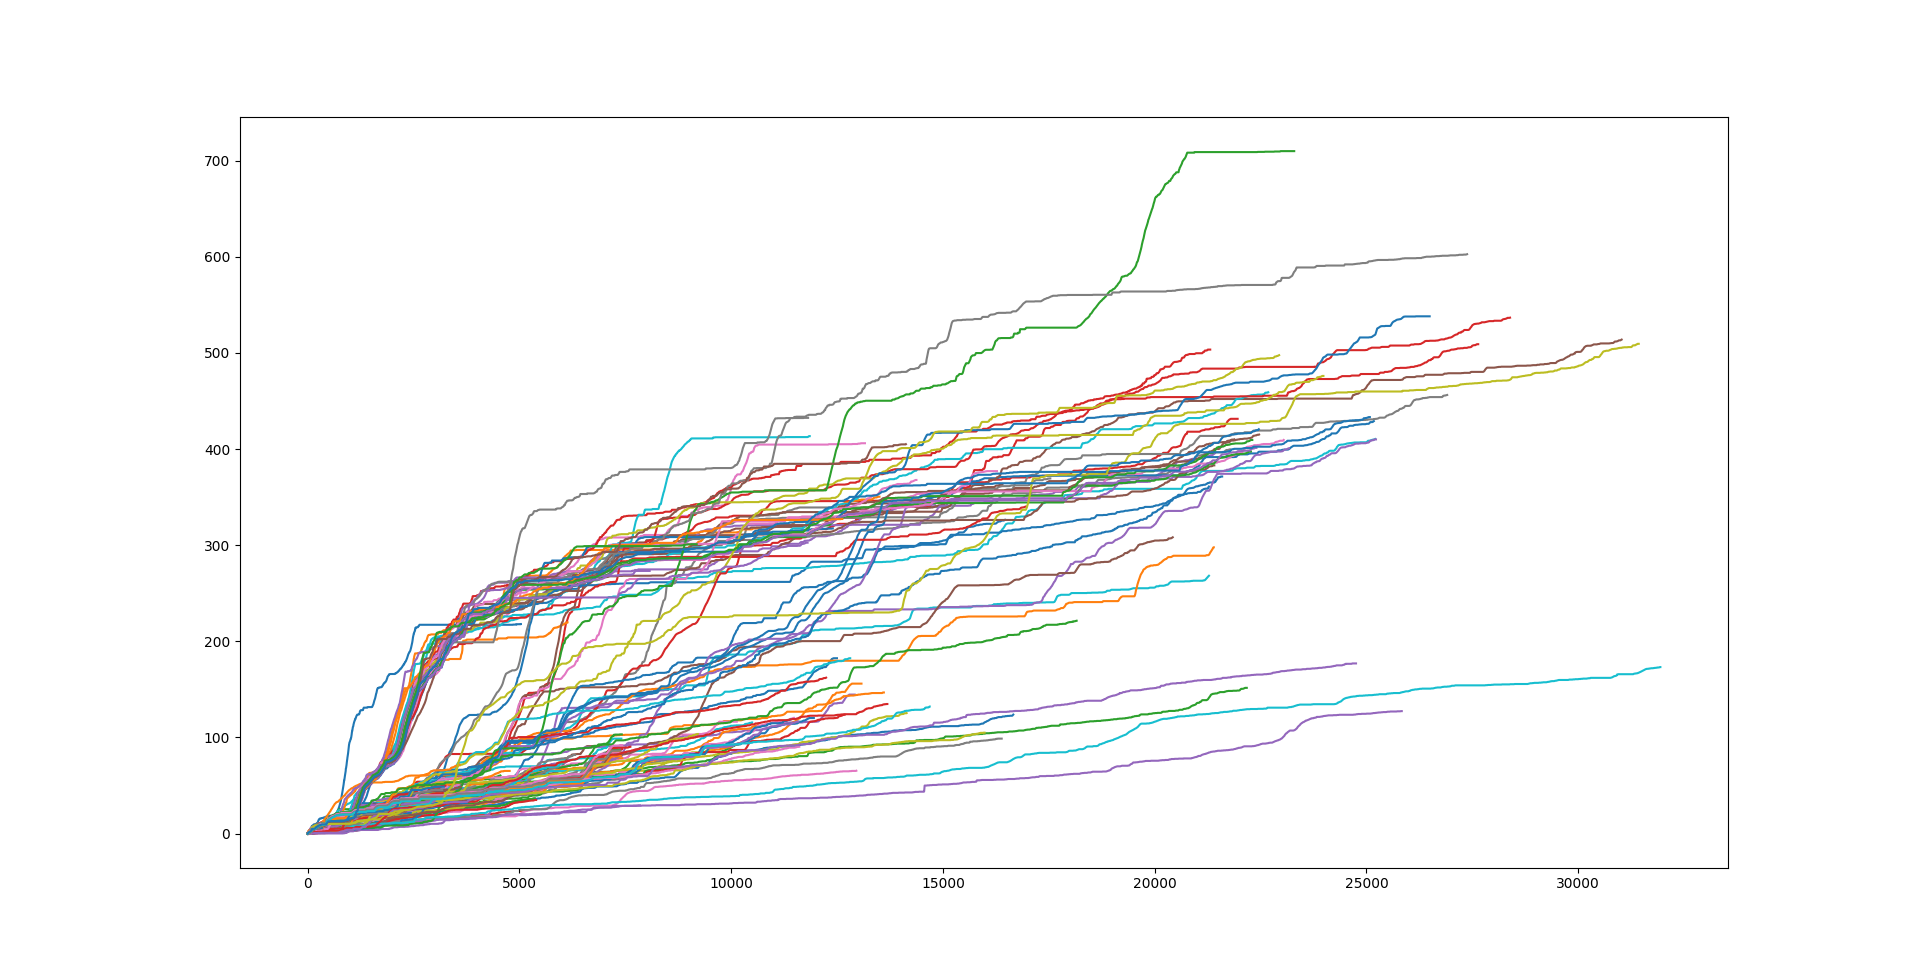
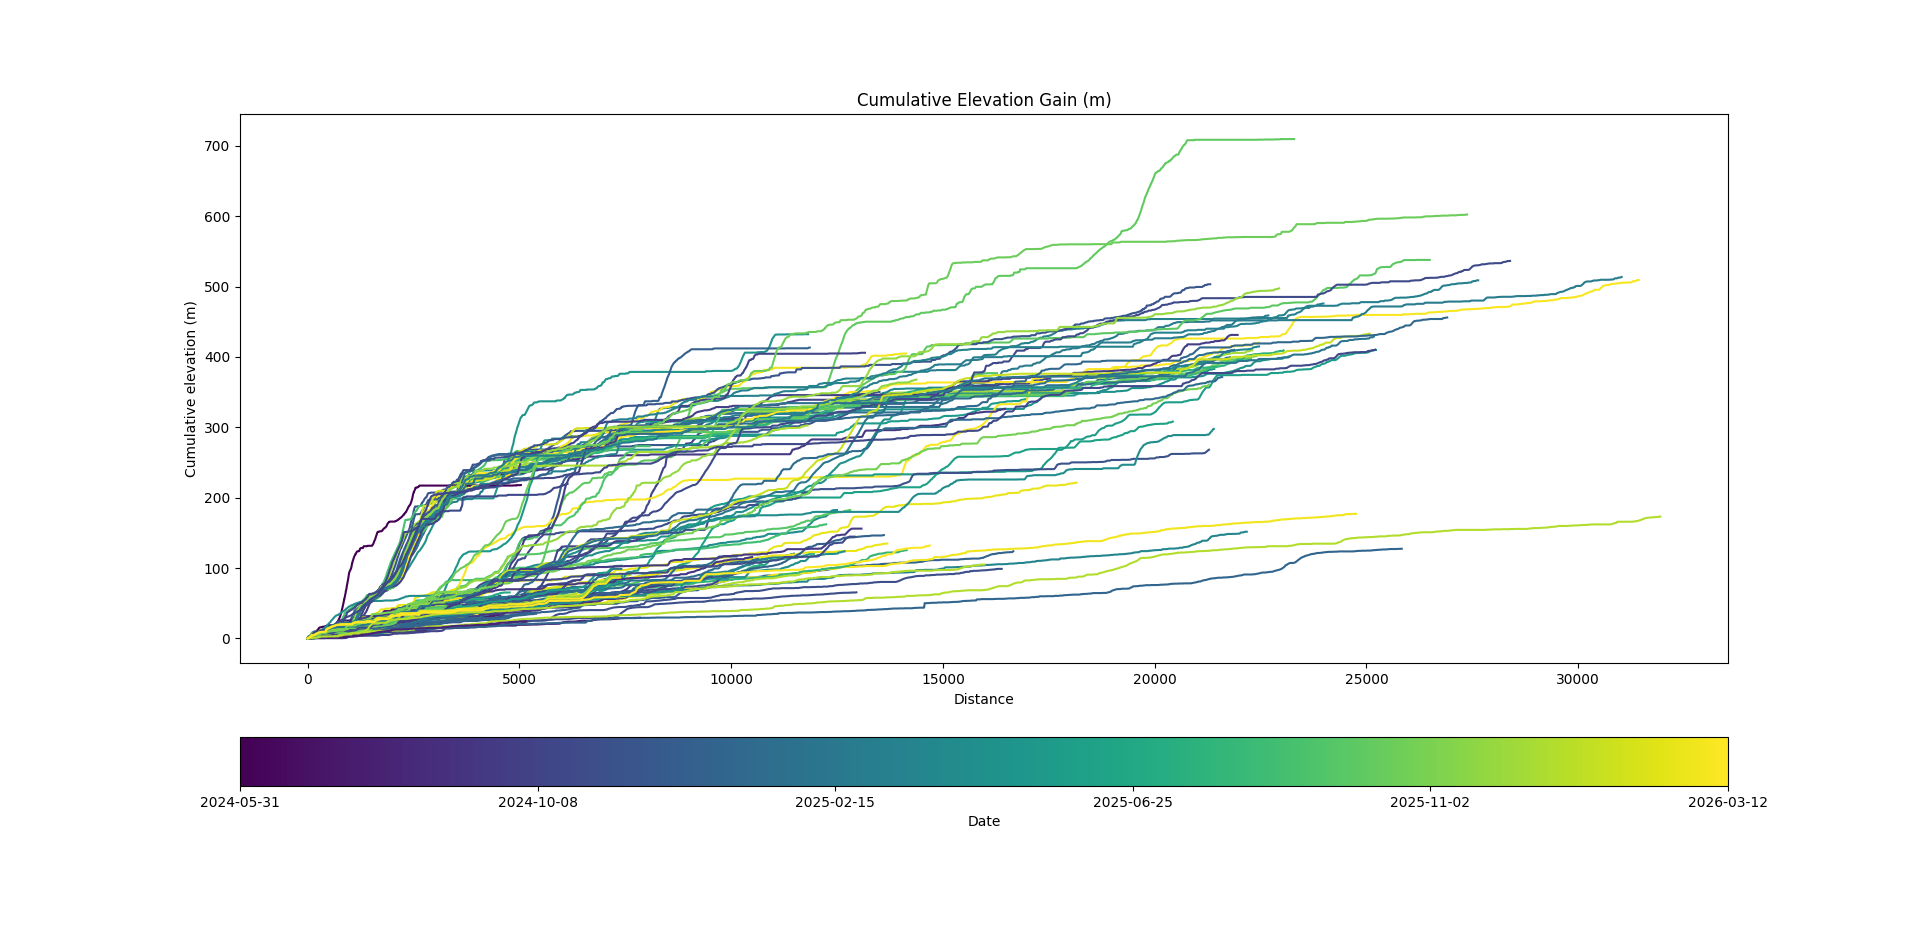
add script to create elevation profiles, update example images

diff --git a/visualize_full.py b/visualize_full.py
@@ -1,0 +1,89 @@
+#!usr/bin/python
+# -*- coding: utf-8 -*-import string
+
+import os
+import matplotlib.pyplot as plt
+import matplotlib as mpl
+from matplotlib.lines import Line2D
+import numpy as np
+from datetime import datetime, timedelta
+
+from misc import load_json, pace_to_float, float_to_pace_str, parse_full_date, parse_datestring, METRICS_OF_INTEREST
+from parsing import get_metric_indices, extract_metrics, extract_data
+
+
+def generate_elevation_profile_single(filename):
+	jsondata = load_json(filename)
+	extracted_data = extract_data(jsondata)
+	
+	dist = [datapoint["sumDistance"] for datapoint in extracted_data]
+	elevation = [datapoint["directElevation"] for datapoint in extracted_data]
+	plotdata = {
+		"date" : parse_full_date(jsondata["summaryDTO"].get("startTimeLocal")),
+		"x" : dist,
+		"y" : elevation
+	}
+	return plotdata
+
+def generate_cumelevation_profile_single(filename):
+	jsondata = load_json(filename)
+	extracted_data = extract_data(jsondata)
+	
+	dist = [datapoint["sumDistance"] for datapoint in extracted_data]
+	elevation = [datapoint["directElevation"] for datapoint in extracted_data]
+	n = len(elevation)
+	cumelevation = [0]*n
+	for i in range(n-1):
+		cumelevation[i+1] = cumelevation[i]+max(0, elevation[i+1]-elevation[i])
+	plotdata = {
+		"date" : parse_full_date(jsondata["summaryDTO"].get("startTimeLocal")),
+		"x" : dist,
+		"y" : cumelevation
+	}
+	return plotdata
+
+def plot_elevation_profiles(filenames, cumulative=False):
+	color_ord = {}
+	data_by_date = {}
+	for filename in filenames:
+		if cumulative:
+			plotdata = generate_cumelevation_profile_single(filename)
+		else:
+			plotdata = generate_elevation_profile_single(filename)
+		data_by_date[plotdata["date"]] = {"x": plotdata["x"], "y" : plotdata["y"]}
+		color_ord[plotdata["date"]] = plotdata["date"].toordinal()
+	min_dataord = min(color_ord[d] for d in color_ord)
+	max_dataord = max(color_ord[d] for d in color_ord)
+	dataord_diff = max_dataord-min_dataord
+	for date in data_by_date:
+		datapoint = data_by_date[date]
+		plt.plot(datapoint["x"],datapoint["y"], c=mpl.colormaps["viridis"]((date.toordinal()-min_dataord)/dataord_diff))
+	plt.xlabel("Distance")
+	if cumulative:
+		plt.ylabel("Cumulative elevation (m)")
+		plt.title("Cumulative Elevation Gain (m)")
+	else:
+		plt.ylabel("Elevation (m)")
+		plt.title("Height Profiles")
+
+	ticks = np.linspace(0.0, 1.0, 6)
+	cbar = plt.colorbar(plt.cm.ScalarMappable(cmap="viridis"), ax=plt.gca(), orientation='horizontal', pad=0.1, aspect=30)
+	cbar.set_label('Date')
+	cbar.set_ticks(ticks)
+	cbar.set_ticklabels([datetime.fromordinal(int(t*dataord_diff+min_dataord)).strftime('%Y-%m-%d') for t in ticks])
+
+	plt.show()
+
+	
+def test(type="running"):
+	dir_downloaded = "full_activity_data/"+type
+	input_files = [
+			"full_activity_data/"+type+"/"+f for f in os.listdir(dir_downloaded)
+			if f.lower().endswith(".json")
+		]
+	#print (input_files)
+	plot_elevation_profiles(input_files, True)
+
+if __name__ == "__main__":
+	test("running")
+	

diff --git a/visualizing.py b/visualizing.py
@@ -81,7 +81,6 @@ def visualize_activity_data(datadir:str, min_date:str="01.01.2000", activitytype
 			x_vals_hl.append(speed)
 			y_vals_hl.append(data.get('avgHR'))
 			sizes_hl.append(data.get('totaldist') * MARKERSCALE_DIST+1)
-			
 		
 	print ("Total distance: "+str(int(totaldist))+"m")
 	t_hours = int(totaltime//(3600))
